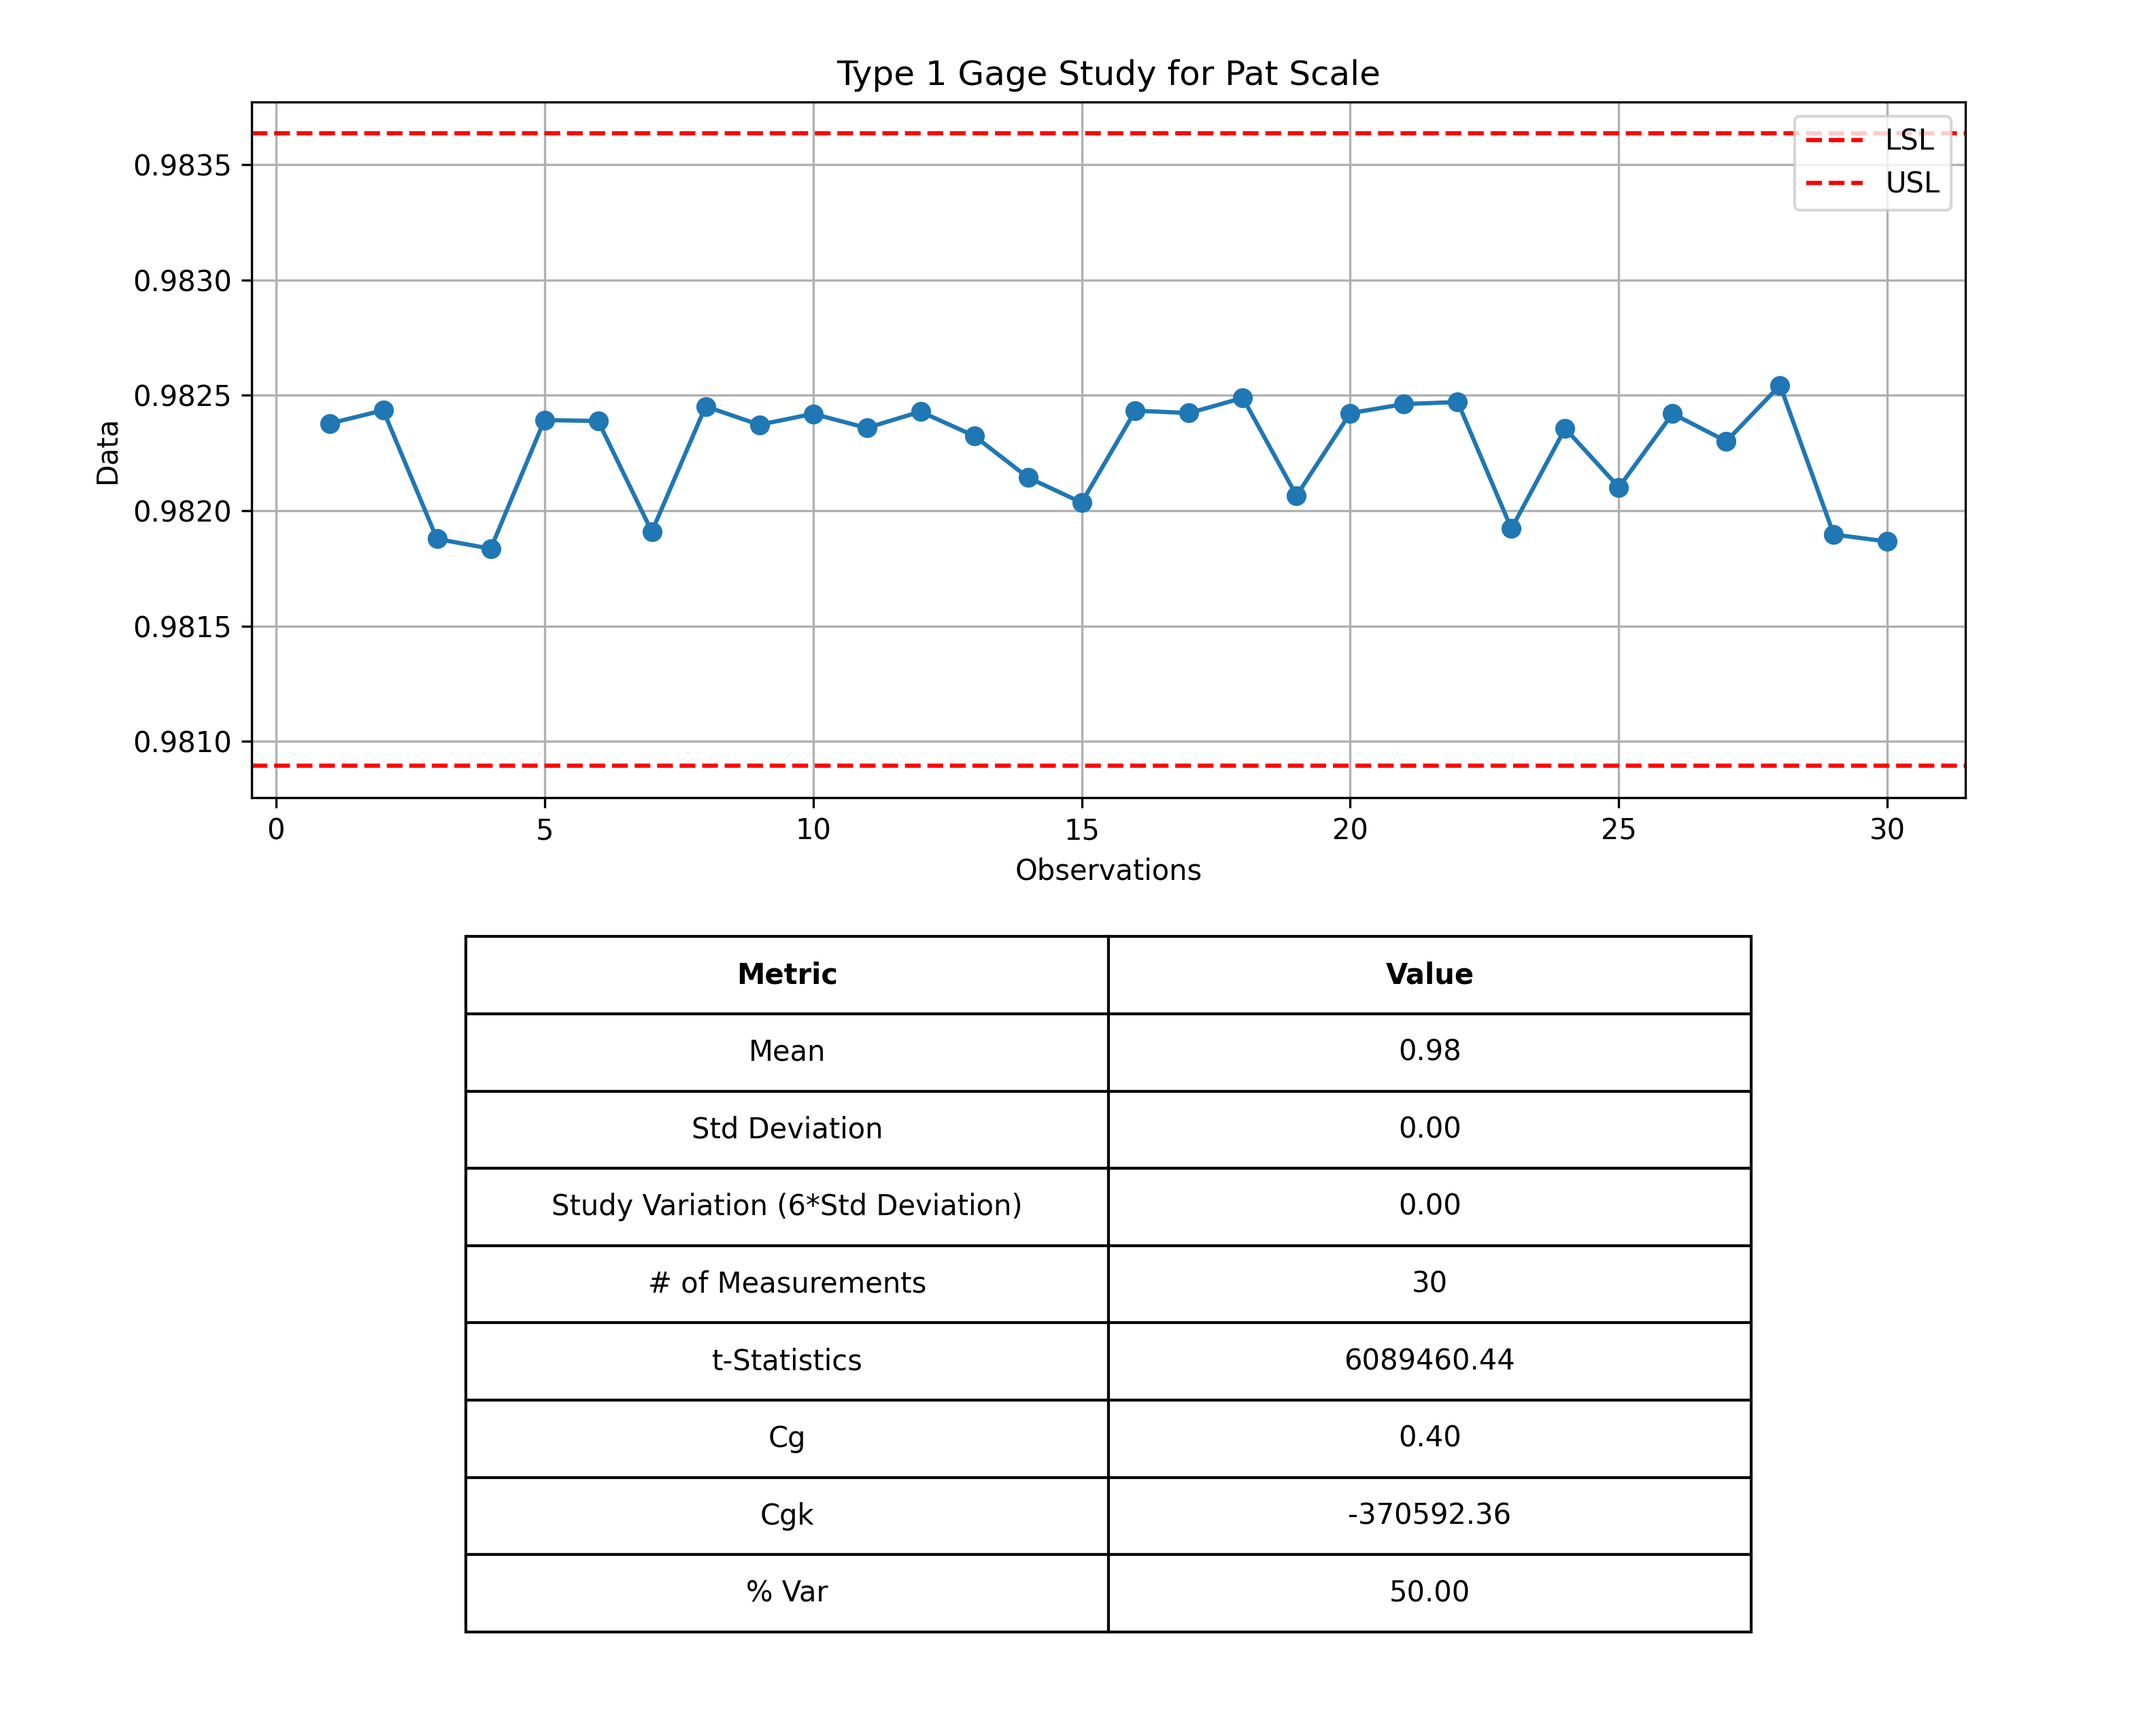
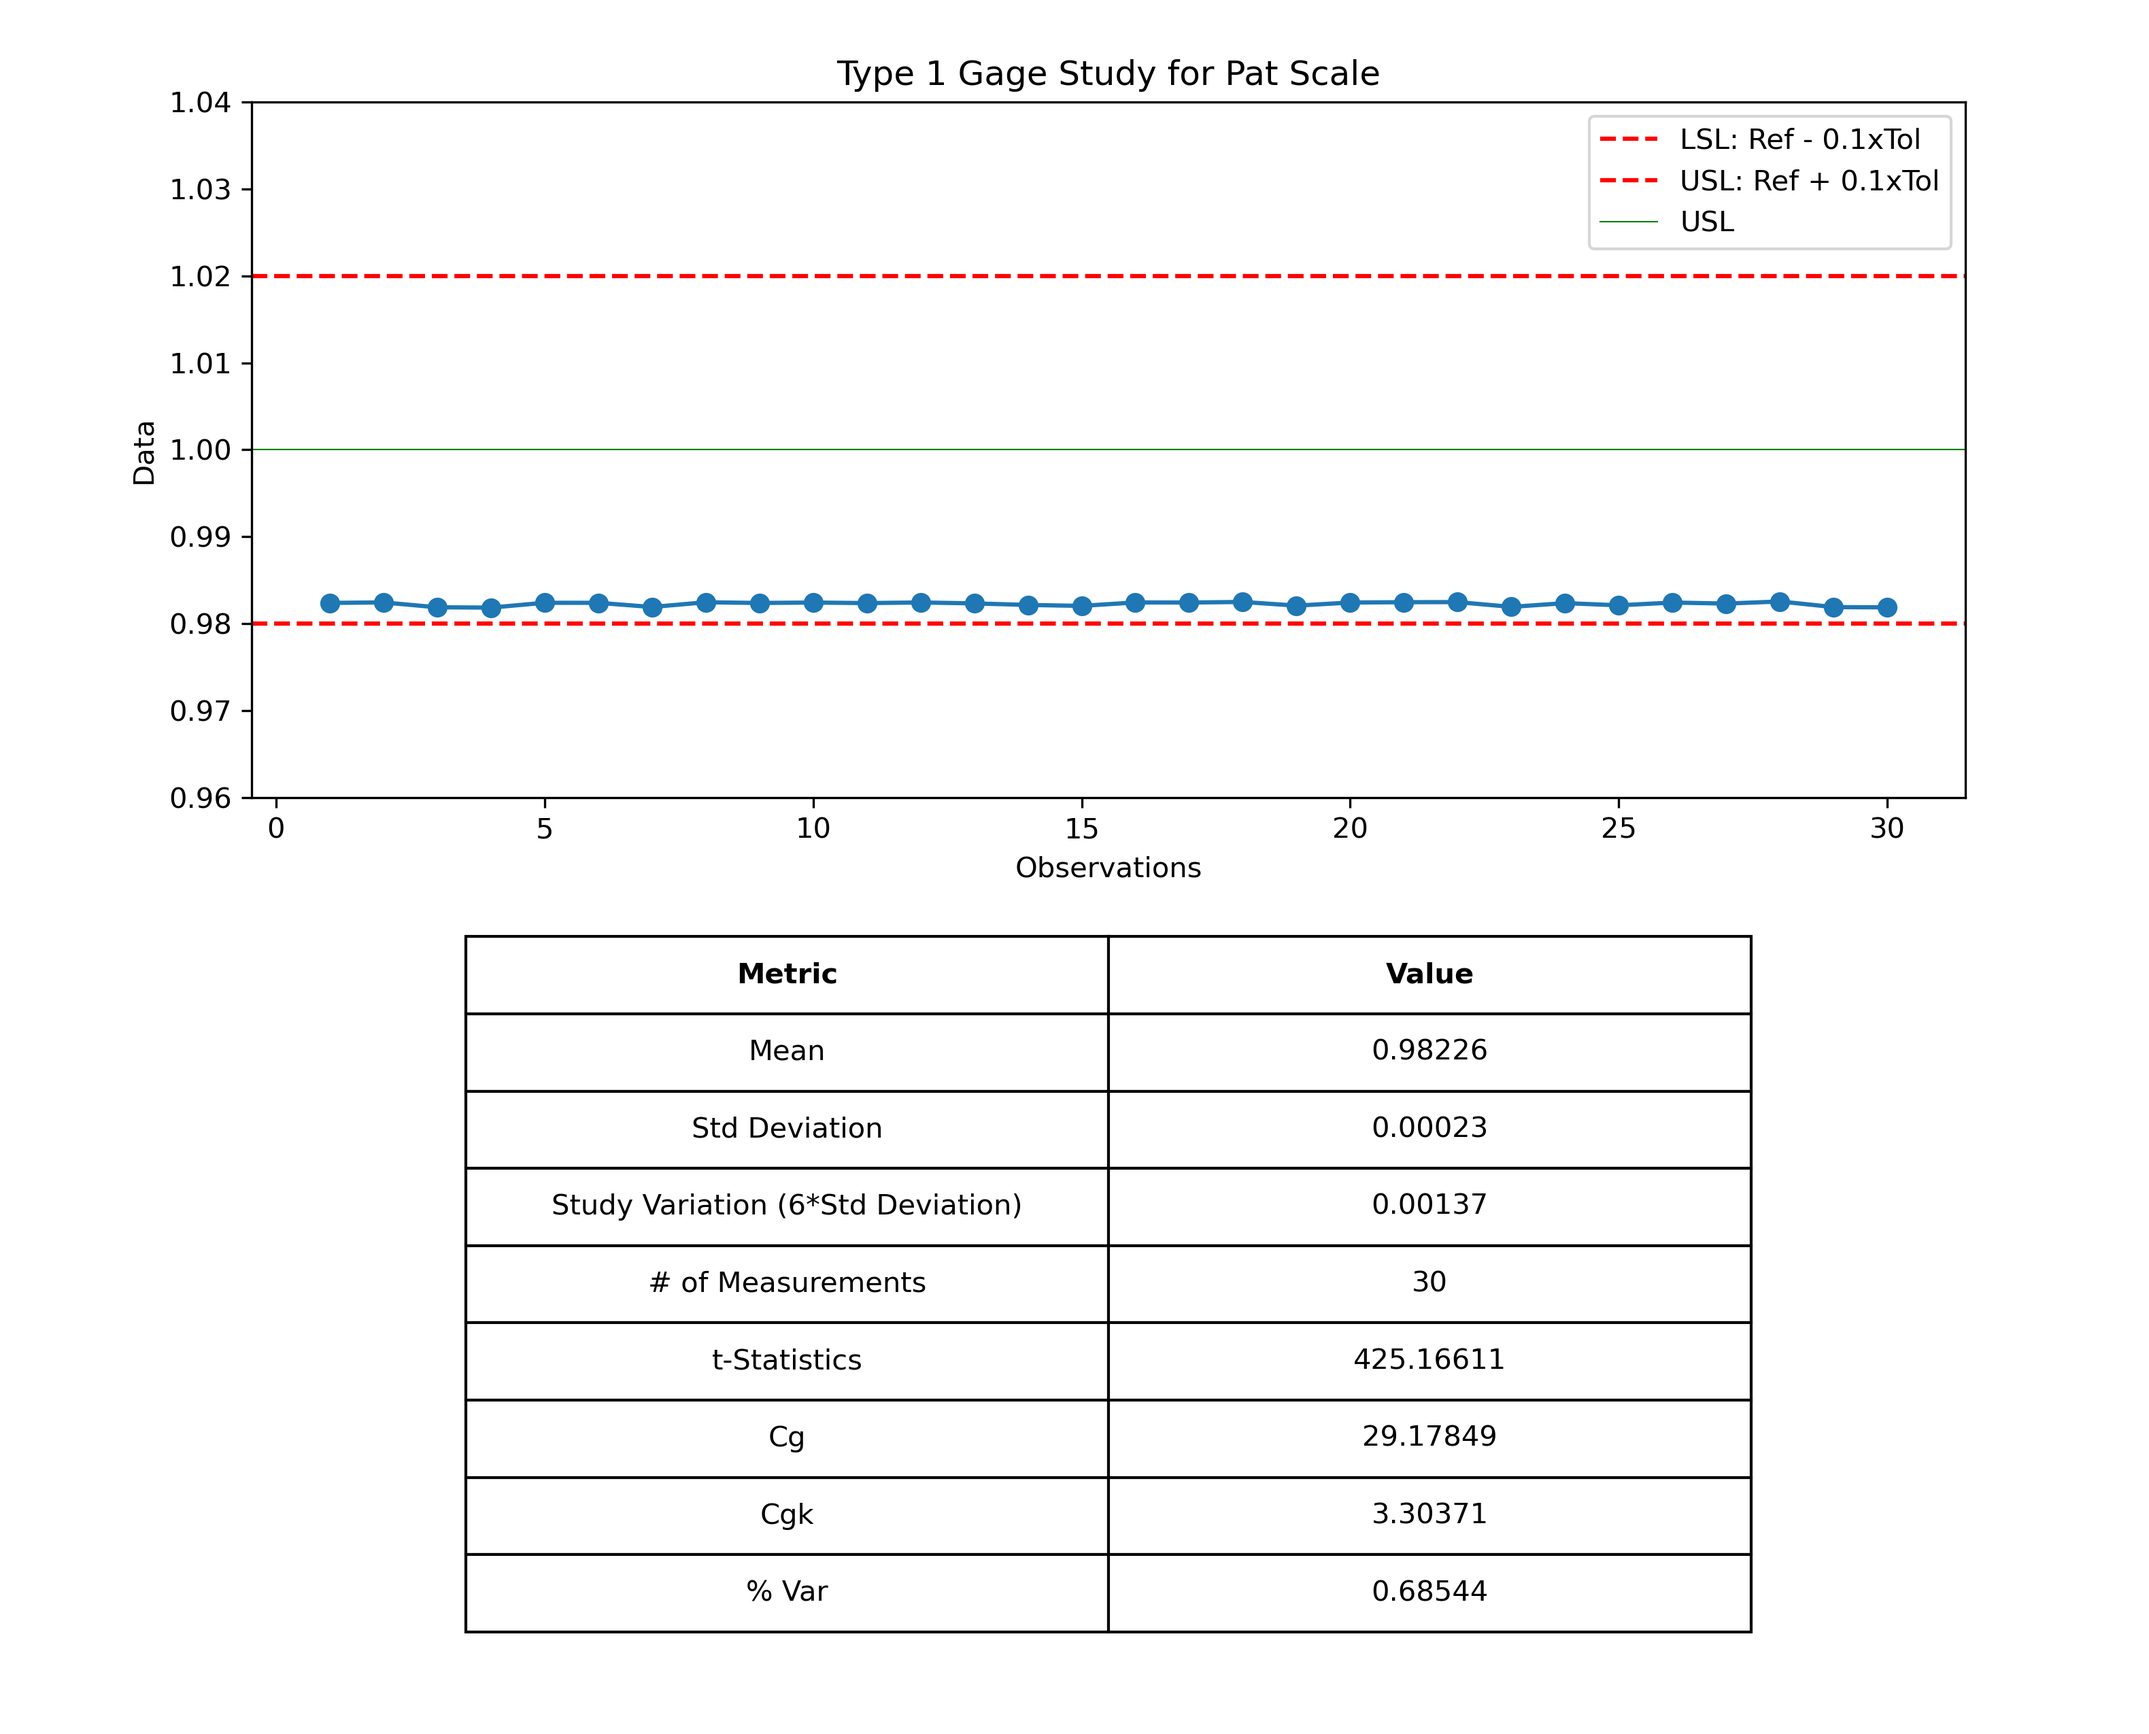
changed the logic of USL and LSL

diff --git a/type1_calculations.py b/type1_calculations.py
@@ -175,24 +175,21 @@ def calculate_Cgk(file_path, sheet_name='Sheet1', col_index=None, K=20, ref_valu
     return {'Cgk': Cgk}
 
 #%Var
-def calculate_percent_var(file_path, sheet_name='Sheet1', col_index=None, K=20):
+def calculate_percent_var(file_path, sheet_name='Sheet1', col_index=None, K=20, tolerance=None):
     # Read the Excel file
     df = pd.read_excel(file_path, sheet_name=sheet_name)
     
     # Validate col_index
     if col_index is None or col_index >= len(df.columns):
         raise ValueError("Column index is required and must be within the range of available columns.")
+    if tolerance is None or tolerance == 0:
+        raise ValueError("Tolerance is required and must be non-zero.")
     
-    # Extract column name using col_index
-    column_name = df.columns[col_index]
-
     # Calculate the study variation and tolerance for the specified column
     SV = calculate_stdy_var(file_path, sheet_name, col_index)['Study Variable']
-    tolerance_values = calculate_tolerance(file_path, sheet_name, col_index)
-    tolerance_range = tolerance_values['Tolerance']['USL'] - tolerance_values['Tolerance']['LSL']
     
     # Calculate % Var for the specified column
-    percent_var = (SV / tolerance_range) * 100
+    percent_var = (SV / tolerance ) * 100
     
     # Return a dictionary with the column name and its % Var and Cg value
     return {'% Var': percent_var}
@@ -222,14 +219,12 @@ def generate_graph(col_index = None, ref_value=None, tol=None):
     t_stat = calculate_t_stats(file_path,col_index=col_index,ref_value=ref_value)
     Cg = calculate_Cg(file_path,col_index=col_index, tolerance=tol)
     Cgk = calculate_Cgk(file_path,col_index=col_index,ref_value=ref_value, tolerance=tol)
-    var_percent = calculate_percent_var(file_path,col_index=col_index)
+    var_percent = calculate_percent_var(file_path,col_index=col_index, tolerance=tol)
 
     results = {
         "Mean": means['Mean'],
         "Std Deviation": std['Std Deviation'],
         "Study Variation": stdy_var['Study Variable'],
-        "USL": tolerance['Tolerance']['USL'],
-        "LSL": tolerance['Tolerance']['LSL'],
         "# of Measurements": num_meas['# of Measurments'],
         "t-Statistics": t_stat['t-Statistics'],
         "Cg": Cg['Cg'],
@@ -237,13 +232,13 @@ def generate_graph(col_index = None, ref_value=None, tol=None):
         "% Var": var_percent['% Var']
     }
 
-    USL = tolerance['Tolerance']['USL']
-    LSL = tolerance['Tolerance']['LSL']
-    range_buffer_percentage = 0.30  # Adjust the buffer percentage as needed
+    USL = ref_value + (0.1*tol)
+    LSL = ref_value - (0.1*tol)
+    range_buffer_percentage = 0.50  # Adjust the buffer percentage as needed
     range_buffer = (USL - LSL) * range_buffer_percentage
     new_LSL = LSL - range_buffer
     new_USL = USL + range_buffer
-    values = [f"{value:.2f}" if isinstance(value, float) else str(value) for value in results.values()]
+    values = [f"{value:.5f}" if isinstance(value, float) else str(value) for value in results.values()]
     plt.figure(figsize=(12, 10))
     plt.subplot(211)  # Adjust this to create space for the table
     plt.plot(df.iloc[:,0], df.iloc[:,col_index], marker='o')
@@ -251,16 +246,14 @@ def generate_graph(col_index = None, ref_value=None, tol=None):
     plt.xlabel('Observations')
     plt.ylabel('Data')
     plt.ylim(new_LSL,new_USL)
-    plt.axhline(y=LSL, color='r', linestyle='--', label='LSL')
-    plt.axhline(y=USL, color='r', linestyle='--', label='USL')
+    plt.axhline(y=LSL, color='r', linestyle='--', label='LSL: Ref - 0.1xTol')
+    plt.axhline(y=USL, color='r', linestyle='--', label='USL: Ref + 0.1xTol')
     plt.axhline(y=ref_value, color='g', linestyle='-', label='USL', lw=0.5)
-    plt.grid(True)
     plt.legend()
 
     # Prepare table data
     metrics = ["Mean", "Std Deviation", "Study Variation (6*Std Deviation)", "# of Measurements", "t-Statistics", "Cg", "Cgk", "% Var"]
     values = [means["Mean"], std["Std Deviation"], stdy_var["Study Variable"], num_meas["# of Measurments"], t_stat["t-Statistics"], Cg["Cg"], Cgk["Cgk"], var_percent["% Var"]]
-
     # Convert all numeric values to formatted strings for display
     formatted_values = [f"{value:.5f}" if isinstance(value, float) else str(value) for value in values]
 
@@ -295,4 +288,7 @@ def generate_graph(col_index = None, ref_value=None, tol=None):
 file_path = 'Data.xlsx'
 sheet_name = 'Sheet1'
 
+generate_graph(col_index=1, ref_value=1, tol=0.5)
+generate_graph(col_index=2, ref_value=1, tol=0.2)
+generate_graph(col_index=3, ref_value=165, tol=200)
 generate_graph(col_index=4, ref_value=470, tol=20)
